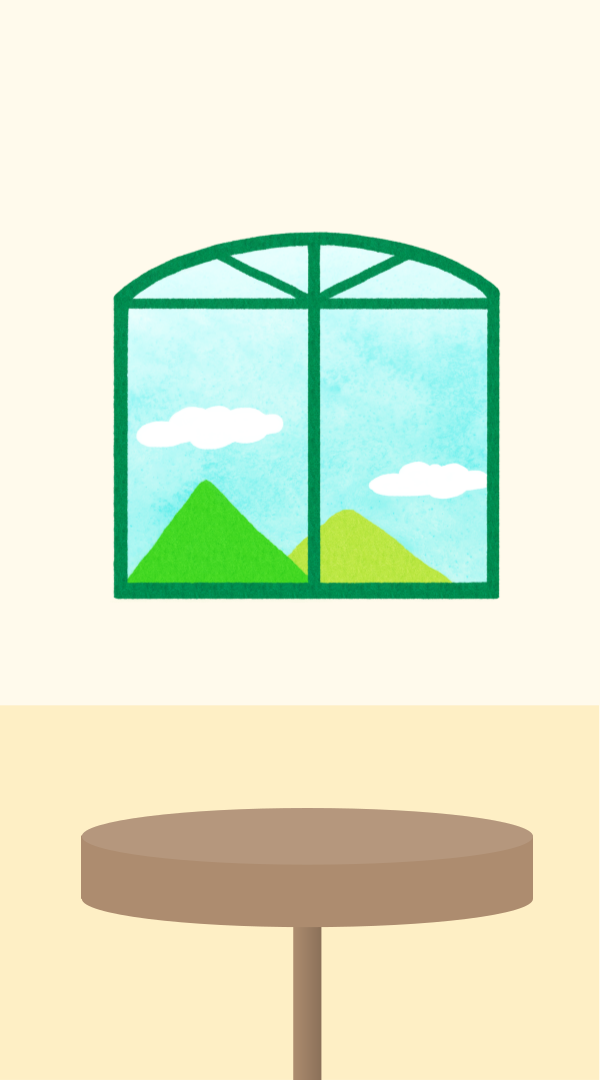
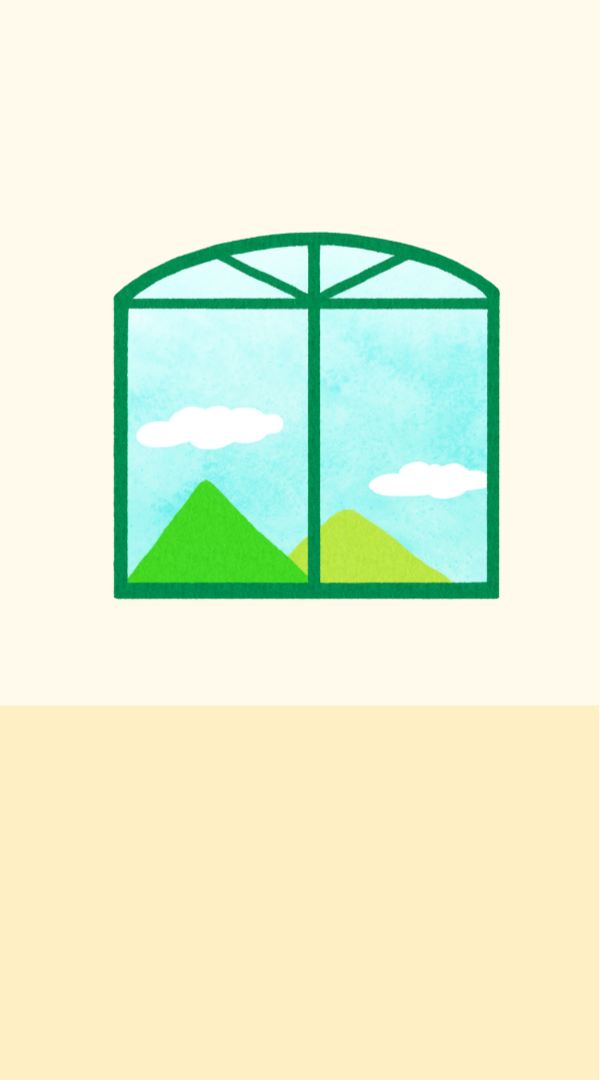
style: home 식물캐릭터, footer css 수정

Changed region(s): [[0.12, 0.7333, 0.9, 1.0]]

diff --git a/src/pages/Home/index.tsx b/src/pages/Home/index.tsx
@@ -9,8 +9,10 @@ import {
   Header,
   FriendshipBar,
   Main,
+  CharacterBox,
   Character,
   PlantImg,
+  TableImg,
   LevelImg,
   SideBar,
   CharacterName,
@@ -27,13 +29,16 @@ const Home = () => {
         <BiSolidBell color="#ffc400" size="40" />
       </Header>
       <Main>
-        <Character>
-          <PlantImg src="/assets/images/plant.png" alt="plant" />
-          <div>
-            <LevelImg src="/assets/images/level5.png" alt="level" />
-            <CharacterName>귀염뽀짝상추</CharacterName>
-          </div>
-        </Character>
+        <CharacterBox>
+          <TableImg src="/assets/images/table.png" alt="plant" />
+          <Character>
+            <PlantImg src="/assets/images/plant.png" alt="plant" />
+            <div>
+              <LevelImg src="/assets/images/level5.png" alt="level" />
+              <CharacterName>귀염뽀짝상추</CharacterName>
+            </div>
+          </Character>
+        </CharacterBox>
         <SideBar>
           <div>
             <FaBook color="#a8511c" size="40" />
@@ -45,6 +50,7 @@ const Home = () => {
           </div>
           <div>
             <GiHealthNormal color="#ff600a" size="40" />
+            <div></div>
             <span>영양제</span>
           </div>
           <div>

diff --git a/src/pages/Home/styles.tsx b/src/pages/Home/styles.tsx
@@ -57,18 +57,23 @@ export const Main = styled.main`
   height: 90%;
 `;
 
-export const Character = styled.div`
+export const CharacterBox = styled.div`
   display: flex;
   flex-direction: column;
   align-items: center;
   justify-content: center;
   align-items: center;
   width: 100%;
-  margin-top: 180px;
+  margin-top: 70px;
+`;
 
+export const Character = styled.div`
+  position: relative;
+  top: -200px;
   div {
     margin-top: 10px;
     display: flex;
+    justify-content: center;
     align-items: center;
     gap: 5px;
   }
@@ -77,6 +82,12 @@ export const Character = styled.div`
 export const PlantImg = styled.img`
   width: 200px;
   height: 200px;
+`;
+
+export const TableImg = styled.img`
+  position: relative;
+  bottom: -340px;
+  width: 360px;
 `;
 
 export const LevelImg = styled.img`

diff --git a/src/Router.tsx b/src/Router.tsx
@@ -69,6 +69,7 @@ export default Router;
 const Container = styled.div`
   border-left: 1px solid lightgray;
   border-right: 1px solid lightgray;
+  overflow: hidden;
   width: 550px;
   height: 100dvh;
   margin: auto;
@@ -79,9 +80,12 @@ const Container = styled.div`
 `;
 
 const Main = styled.div`
-  height: 90%;
+  height: 100dvh;
 `;
 
 const Footer = styled.div`
-  height: 10%;
+  width: 550px;
+  height: 95px;
+  position: absolute;
+  bottom: 0;
 `;
